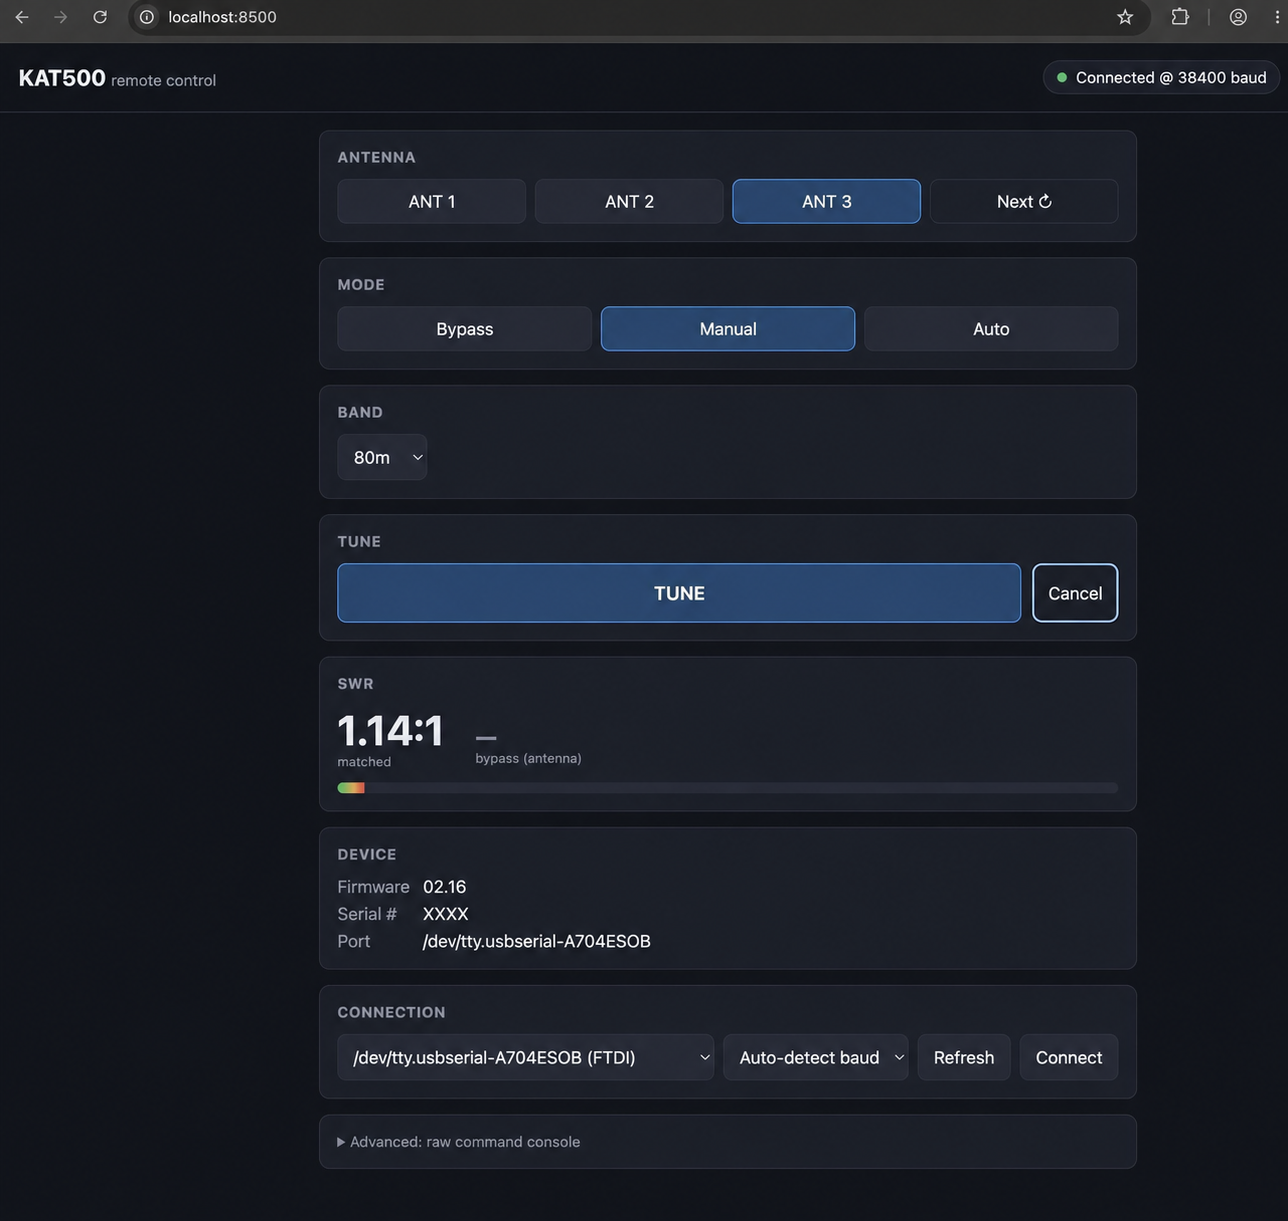
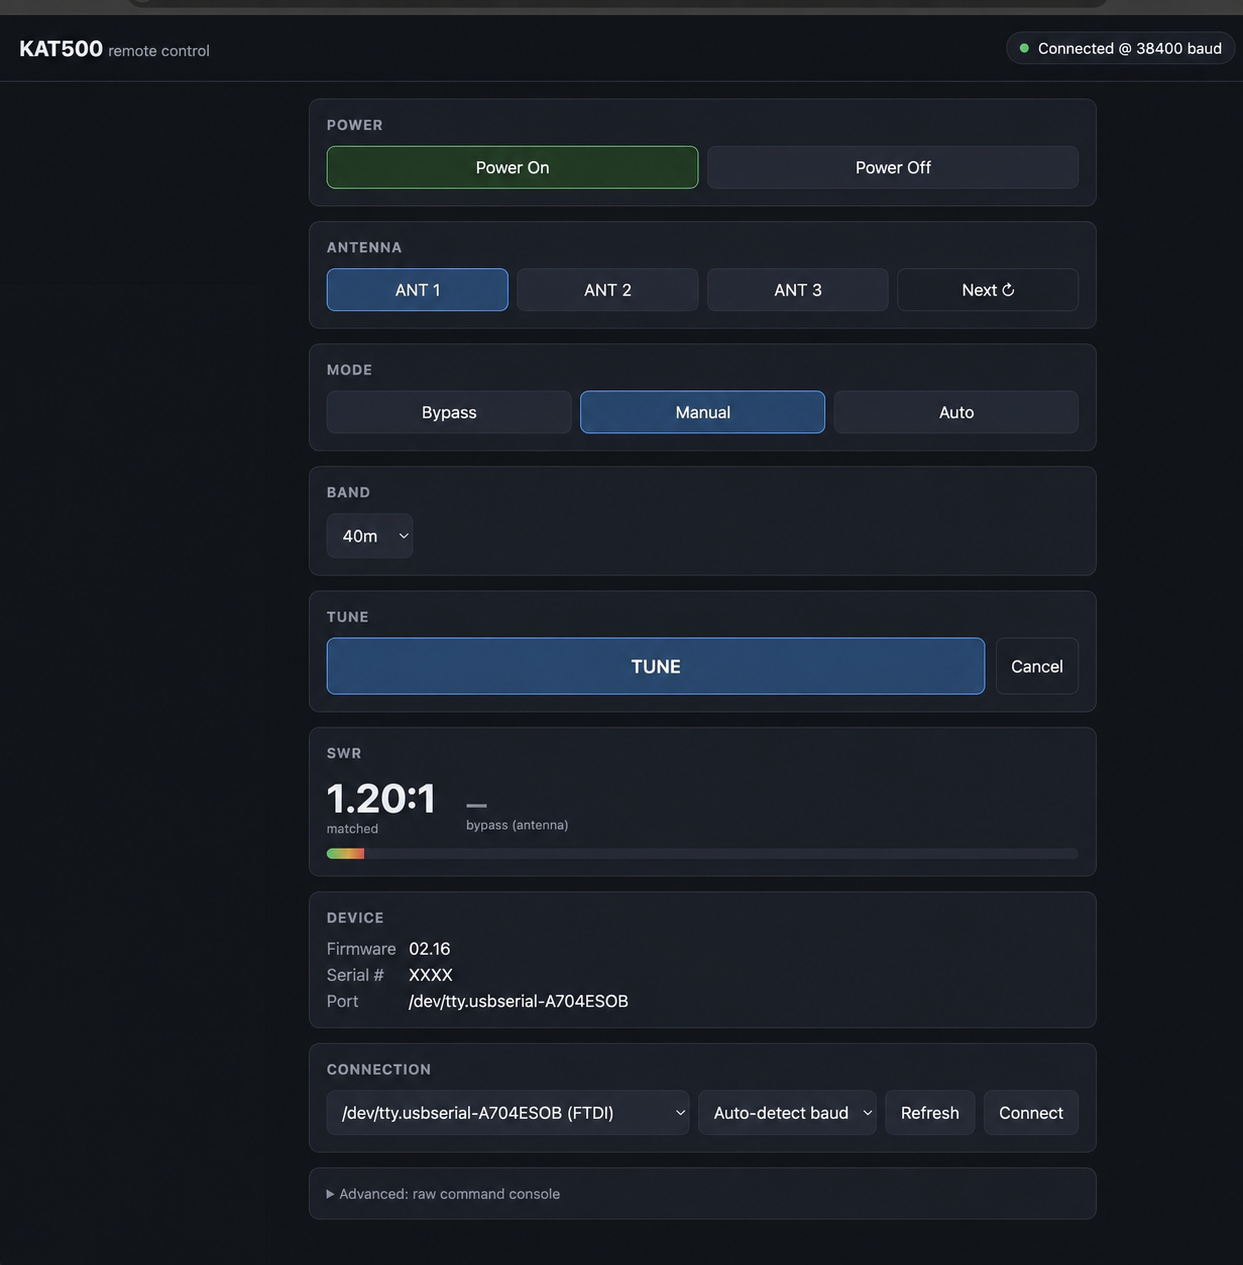
Add power on/off control and update screenshot
Uses the KAT500's PS command to logically power the tuner on/off
from the web panel, matching the front-panel MODE-button behavior.

diff --git a/server/kat500.js b/server/kat500.js
@@ -69,6 +69,7 @@ class KAT500 {
    * (SWR, fault, antenna, etc.) never linger and look live. */
   liveFieldDefaults() {
     return {
+      power: null,
       antenna: null,
       mode: null,
       bypass: null,
@@ -361,6 +362,10 @@ class KAT500 {
   handleMessage(token) {
     let m;
 
+    if ((m = /^PS([01])$/.exec(token))) {
+      this.setState({ power: m[1] === '1' });
+      return;
+    }
     if ((m = /^AN(\d)$/.exec(token))) {
       this.setState({ antenna: Number(m[1]) });
       return;
@@ -422,6 +427,7 @@ class KAT500 {
       await this.get('I', 500).catch(() => {});
       await this.get('RV').catch(() => {});
       await this.get('SN').catch(() => {});
+      await this.get('PS').catch(() => {});
       await this.get('AN').catch(() => {});
       await this.get('MD').catch(() => {});
       await this.get('BYP').catch(() => {});
@@ -455,6 +461,7 @@ class KAT500 {
         await this.get('FLT').catch(() => {});
       }
       if (this.pollTick % 5 === 0) {
+        await this.get('PS').catch(() => {});
         await this.get('AN').catch(() => {});
         await this.get('MD').catch(() => {});
         await this.get('BYP').catch(() => {});
@@ -486,6 +493,13 @@ class KAT500 {
       () => {}
     );
     return run;
+  }
+
+  setPower(on) {
+    return this.withLock(async () => {
+      await this.set(on ? 'PS1' : 'PS0');
+      return this.get('PS').catch(() => {});
+    });
   }
 
   setAntenna(n) {

diff --git a/public/app.js b/public/app.js
@@ -37,6 +37,9 @@ async function postCommand(action, value) {
   }
 }
 
+el('powerOnBtn').addEventListener('click', () => postCommand('power', true));
+el('powerOffBtn').addEventListener('click', () => postCommand('power', false));
+
 document.querySelectorAll('.antenna-btn').forEach((btn) => {
   btn.addEventListener('click', () => postCommand('antenna', Number(btn.dataset.ant)));
 });
@@ -121,6 +124,9 @@ function renderState(state) {
     indicator.classList.add('disconnected');
     connText.textContent = state.lastError ? `Disconnected: ${state.lastError}` : 'Disconnected';
   }
+
+  el('powerOnBtn').classList.toggle('active', state.power === true);
+  el('powerOffBtn').classList.toggle('active', state.power === false);
 
   document.querySelectorAll('.antenna-btn[data-ant]').forEach((btn) => {
     const n = Number(btn.dataset.ant);

diff --git a/public/style.css b/public/style.css
@@ -99,12 +99,15 @@ select, input {
   padding: 10px;
 }
 
-.antenna-buttons, .mode-buttons {
+.antenna-buttons, .mode-buttons, .power-buttons {
   display: grid;
   grid-template-columns: repeat(4, 1fr);
   gap: 8px;
 }
 .mode-buttons { grid-template-columns: repeat(3, 1fr); }
+.power-buttons { grid-template-columns: repeat(2, 1fr); }
+.power-btn.active.power-on { background: #16391f; border-color: var(--green); color: #fff; }
+.power-btn.active.power-off { background: #3a1414; border-color: var(--red); color: #fff; }
 
 .fault-banner {
   display: flex;

diff --git a/public/index.html b/public/index.html
@@ -22,6 +22,14 @@
     </section>
 
     <section class="panel">
+      <h2>Power</h2>
+      <div class="power-buttons">
+        <button id="powerOnBtn" class="power-btn power-on">Power On</button>
+        <button id="powerOffBtn" class="power-btn power-off">Power Off</button>
+      </div>
+    </section>
+
+    <section class="panel">
       <h2>Antenna</h2>
       <div class="antenna-buttons">
         <button class="antenna-btn" data-ant="1">ANT 1</button>

diff --git a/server/index.js b/server/index.js
@@ -61,6 +61,9 @@ app.post('/api/command', async (req, res) => {
   const { action, value } = req.body || {};
   try {
     switch (action) {
+      case 'power':
+        await kat.setPower(Boolean(value));
+        break;
       case 'antenna':
         await kat.setAntenna(Number(value));
         break;

diff --git a/README.md b/README.md
@@ -16,6 +16,7 @@ It talks to the KAT500 using the ASCII command set documented in Elecraft's own 
 
 ## Features
 
+- **Power on/off** — logically power the KAT500 on or off over serial, same as holding the front-panel MODE button
 - **Antenna select** — ANT 1/2/3, or cycle like the front-panel ANT button
 - **Mode** — Bypass / Manual / Auto, with instant visual feedback on change
 - **Band override**
